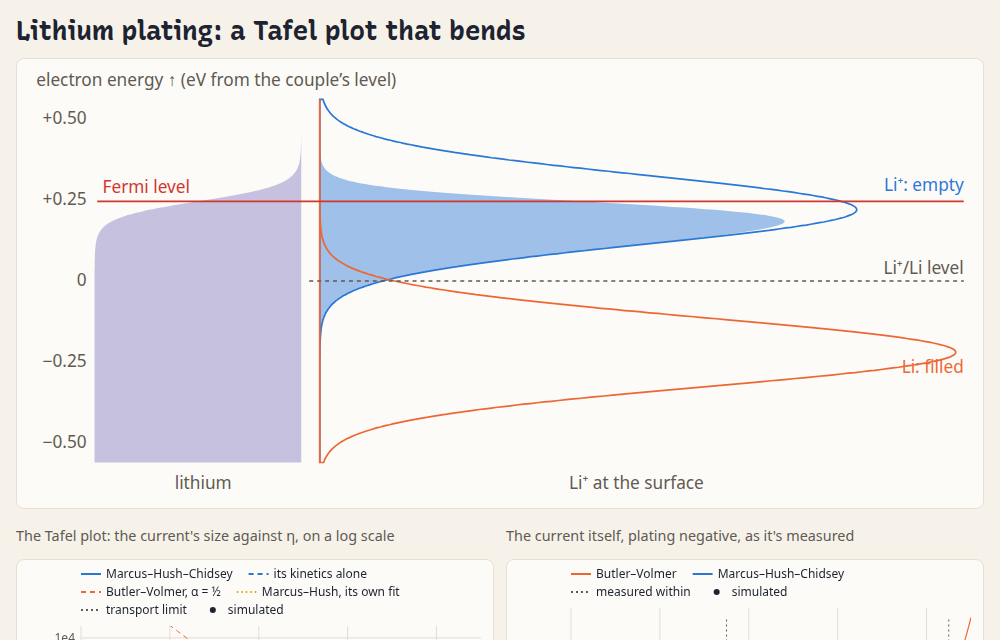
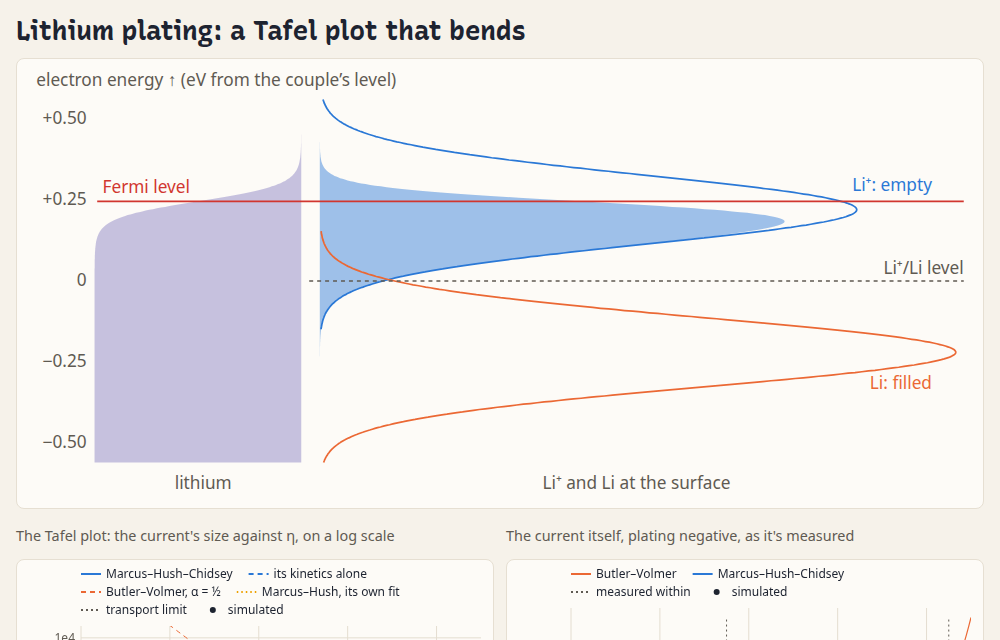
A worked example: Chidsey's experiment, electron transfer through a monolayer
Ferrocene tethered on gold (driftlet's new face surface), its rate constant
fitted to simulated potential-step decays against the overpotential and the
temperature, with Chidsey's 1991 parameters: Marcus-Hush-Chidsey bending
toward a ceiling, against Butler-Volmer and one-level Marcus theory. Fitted
rates within 2e-4 of the theory; every number on the page tested. Revised
after an open-brief review: k_et = 2k0 (2.7 against the 2.5 s^-1 measured),
the ceiling's 41% at 0.8 V, the fixed-A temperature dependence said for what
it is, ion pairing (Rowe and Creager 1991), the chain's role. Lithium page:
its states panel without the baseline strokes.

Changed region(s): [[0.527, 0.7188, 0.744, 0.7812], [0.868, 0.5625, 0.961, 0.625], [0.837, 0.2812, 0.961, 0.3125]]

diff --git a/demos/chidsey.html b/demos/chidsey.html
@@ -1,0 +1,253 @@
+<!doctype html>
+<html lang="en">
+<head>
+<meta charset="utf-8">
+<meta name="viewport" content="width=device-width, initial-scale=1">
+<title>Electron transfer through a monolayer</title>
+<meta name="description" content="Chidsey's experiment: ferrocene held at the end of a monolayer on gold, its electron transfer rate measured by potential steps against the driving force and temperature, Marcus–Hush–Chidsey kinetics against Butler–Volmer and one-level Marcus theory.">
+<meta property="og:title" content="Electron transfer through a monolayer · driftlet">
+<meta property="og:description" content="Chidsey's experiment: ferrocene held at the end of a monolayer on gold, its electron transfer rate measured by potential steps against the driving force and temperature, Marcus–Hush–Chidsey kinetics against Butler–Volmer and one-level Marcus theory.">
+<meta property="og:image" content="https://markblundeberg.github.io/driftlet/demos/screenshots/chidsey.png">
+<meta property="og:image:width" content="1000">
+<meta property="og:image:height" content="640">
+<meta property="og:url" content="https://markblundeberg.github.io/driftlet/demos/chidsey.html">
+<meta property="og:type" content="website">
+<meta name="twitter:card" content="summary_large_image">
+<link rel="icon" href="favicon.svg" type="image/svg+xml">
+<link rel="stylesheet" href="style.css">
+</head>
+<body>
+<main>
+<nav class="site"><a class="brand" href="./"><svg viewBox="0 0 84 74" aria-hidden="true"><path class="mark-rail" d="M4 18 C 34 18, 46 20, 58 34 S 72 54, 80 54" stroke-width="5" stroke-linecap="round"/><path class="mark-rail" d="M4 34 C 34 34, 46 36, 58 50 S 72 70, 80 70" stroke-width="1.8" stroke-linecap="round" opacity="0.75"/><path class="mark-trail" d="M44.9 9.7 L38.9 6.1 M41.0 13.4 L32.8 8.5" stroke-width="1.8" stroke-linecap="round" opacity="0.6"/><circle class="mark-dot" cx="52.2" cy="17.1" r="6.2"/></svg>driftlet</a><a href="./">all demos</a><a href="https://github.com/markblundeberg/driftlet">source on GitHub</a></nav>
+  <h1>Electron transfer through a monolayer: Chidsey's experiment</h1>
+  <p>Ferrocene held at the end of a long alkanethiol in a monolayer on gold, in perchloric acid: nothing
+    diffuses, and the chain slows the electron's tunnelling into milliseconds, so after a potential step
+    the ferrocene's charge relaxes at its electron transfer rate alone, and the current decays as a single
+    exponential. Its rate constant, step by step, against the overpotential, is the plot Chidsey made in
+    1991, with the parameters he fitted: it bends away from Butler–Volmer's straight line toward a ceiling,
+    as Marcus–Hush–Chidsey kinetics say (where one-level Marcus theory would turn down, past η = λ). The
+    top panel is why. Vary the step's overpotential η, the temperature and the reorganization energy λ.
+    (More about the model below.)</p>
+  <div class="controls">
+    <label>η <input id="eta" type="range" min="-0.9" max="0.9" step="0.1" value="0.5"><output id="etaOut"></output></label>
+    <label>T <input id="T" type="range" min="1" max="47" step="1" value="25"><output id="TOut"></output></label>
+    <label>λ <input id="lam" type="range" min="0.4" max="1.2" step="0.05" value="0.85"><output id="lamOut"></output></label>
+    <span class="readout" id="status"></span>
+  </div>
+  <div class="grid">
+    <div class="levels wide" id="states"></div>
+    <div><p class="note">After the step: the current, on a log scale, and the line fitted to it</p><canvas id="decay"></canvas></div>
+    <div><p class="note">The fitted rate constant against η, step by step (the theory's curves run on past the steps)</p><canvas id="rates"></canvas></div>
+  </div>
+  <h2>About this simulation</h2>
+  <p>Before an electron can leave a ferrocene for the gold (or arrive), the solvent and the molecule around
+    it have to rearrange, as if the charge had already moved; λ is what the whole rearrangement would cost
+    with the electron still in place. Marcus's theory puts the barrier at (λ − D)²/4λ for a driving force D
+    (the free energy the transfer releases), so for one electron level the rate grows with D up to D = λ and
+    falls past it (his inverted region: the dotted line). A metal offers a band of levels, filled to its
+    Fermi level, with an empty level at every energy, the activationless one among them. Summed over them,
+    the rate climbs until the levels at which the transfer is activationless are all on offer; driving
+    harder only adds levels deep in the inverted region, which give almost nothing, and the rate levels
+    off. In the top panel (electron energy upward, from the couple's
+    formal level, at the step's start, when half the ferrocene is oxidised), ferrocene's filled states
+    spread over a Gaussian λ below that level and ferrocenium's empty ones λ above, each about √(4λkT) wide
+    (Gerischer's picture of the couple's states). Oxidation
+    takes electrons from the filled states above the Fermi level into the metal's empty ones, the shaded
+    overlap; reduction the reverse. The rate constant the step measures is their sum,
+    k = A kT [I(λ, η) + I(λ, −η)], with I the integral over the band in units of kT.</p>
+  <p><a href="https://pubmed.ncbi.nlm.nih.gov/17847385/">Chidsey (Science, 1991)</a> held ferrocene a fixed
+    distance from gold by self-assembling a mixed thiol monolayer, its ferrocene on a 16-methylene chain, and
+    measured its electron transfer in 1 M HClO₄ from 1 to 47 °C over reaction free energies from −1.0 to
+    +0.8 eV: rate constants from 1 per second to 2 × 10⁴ per second, which Marcus–Hush–Chidsey kinetics
+    fitted reasonably with λ = 0.85 eV and a tunnelling prefactor A = 7 × 10⁴ s⁻¹ eV⁻¹, this page's values
+    (A for that chain: each methylene cuts the tunnelling roughly e-fold, which is what puts these rates
+    within reach of a potential step, ahead of the cell's own charging time). Those put the rate at the
+    formal potential at 1.35 s⁻¹ each way at 25 °C, so 2.7 s⁻¹ for the relaxation a step measures, which
+    Chidsey's group later quoted as 2.5 s⁻¹ measured (<a href="https://pmc.ncbi.nlm.nih.gov/articles/PMC3434967/">Devaraj
+    and colleagues, 2006</a>); 0.61 each way at 1 °C, 2.55 at 47 °C, an activation energy of 0.24 eV, a
+    little above λ/4. The ceiling is A kT √(4πλ/kT) = 3.7 × 10⁴ s⁻¹, half of which the oxidation reaches at
+    η = λ; at 0.8 V the rate is 41% of it, and by 1.5 V it has all but reached it (99.9%). By 0.8 V Butler–Volmer, with
+    the same rate at the formal potential, would be 500 times faster. Driven hard, the rate depends on the
+    temperature far less than at the formal potential: 10% between 1 and 47 °C at 0.8 V against fourfold,
+    and 2% if the electronic coupling, rather than A, is held fixed (A in this form carries 1/√T).</p>
+  <p>The simulation runs the experiment: the gold at the couple's formal potential, a step to η, and the
+    current through the gold as the ferrocene's coverage moves to its new equilibrium. Its rate constant is
+    the slope of a straight line fitted to ln i over the decay (between half a decay time and three), with
+    nothing of the theory in the fit; the points follow the line, worked out apart from the solver (the
+    integral by Simpson's rule), within 2 × 10⁻⁴. The couple is driftlet's surface species at the face
+    (<code>surface</code>, with the reaction <code>Fc + ClO4- = FcClO4 + e-</code>, Marcus–Hush–Chidsey
+    kinetics), and the coverage is held by the face, not carried by the solution.</p>
+  <p>What the model leaves out. Surface species here carry no charge, so ferrocenium is written as an ion
+    pair with perchlorate, which the acid's 1 M supplies, as it's often described in these monolayers
+    (ion pairing there is well documented: Rowe and Creager, Langmuir 7, 2307, 1991). The face has no capacitance, so no charging current follows the step, where a real
+    measurement must separate the two (it decays in microseconds there). All the potential the step applies
+    drives the reaction: the share of the interfacial drop that falls between the ferrocene and the
+    solution isn't modelled, nor the spread of rates a real monolayer shows, nor the solution's resistance
+    between the gold and a reference. The gold's density of states and the coupling are taken as flat in
+    energy; λ and A are held fixed as the temperature changes; and the rate is symmetric, one λ for both
+    directions. Later work has refined each of these (kinetic dispersion, asymmetric forms of the theory):
+    the fit here is the first one, the one that made the case. The ferrocene covers 2% of the monolayer's sites (1.5 × 10⁻¹¹
+    mol/cm², an illustrative coverage: k doesn't depend on it).</p>
+</main>
+<script type="module">
+import { Device, FARADAY, GAS_CONSTANT, units } from '../src/index.js';
+import { build, layer, ohmic, bath, aqueous, metal } from '../src/kit.js';
+import { chart, colors } from './plot.js';
+import { showCode, fromQuery, fitted } from './common.js';
+
+const A = 7e4; // Chidsey's tunnelling prefactor, s⁻¹ eV⁻¹
+const sites = 7.6e-6, cover = 0.02; // a full alkanethiol monolayer's sites (mol/m²), and the ferrocene's share
+const acid = { 'H+': 1000, 'ClO4-': 1000 }; // 1 M HClO₄
+const kT = (T) => (GAS_CONSTANT * T) / FARADAY; // eV
+// The Marcus–Hush–Chidsey integral by Simpson's rule, apart from the library's: I(λ, a) =
+// ∫ e^{−(x − λ + a)²/4λ}/(1 + eˣ) dx, with x, λ and a in units of kT.
+function mhcI(lam, a) {
+  const L = lam + Math.abs(a) + 14 * Math.sqrt(lam) + 60, n = 2 * Math.ceil(L / 0.1), h = (2 * L) / n;
+  const f = (x) => Math.exp(-((x - lam + a) * (x - lam + a)) / (4 * lam)) / (1 + Math.exp(x));
+  let s = f(-L) + f(L);
+  for (let k = 1; k < n; k++) s += (k % 2 ? 4 : 2) * f(-L + k * h);
+  return (s * h) / 3;
+}
+// The rate constant a step to η measures (s⁻¹), oxidation's plus reduction's: Chidsey's, A kT [I(η) + I(−η)];
+// Butler–Volmer's with α = ½ and the same rate at the formal potential; and one-level Marcus theory's.
+function rate(eta, lam, T, law = 'mhc') {
+  const kt = kT(T), L = lam / kt, a = eta / kt, k0 = A * kt * mhcI(L, 0);
+  if (law === 'bv') return k0 * 2 * Math.cosh(a / 2);
+  if (law === 'marcus') return k0 * 2 * Math.cosh(a / 2) * Math.exp(-(a * a) / (4 * L));
+  return A * kt * (mhcI(L, a) + mhcI(L, -a));
+}
+// Gold, its face holding ferrocene (Fc) and ferrocenium paired with perchlorate (FcClO4) on the
+// monolayer's sites, half each at the start; the acid; a bath. k0 per area: sites × the rate per
+// ferrocene at the formal potential (each Fc and ClO₄⁻ at its standard state).
+const monolayer = (V, lam, T) => build({
+  T,
+  library: [aqueous(['H+', 'ClO4-'], { epsr: 0 }), metal('Au')],
+  stack: [
+    ohmic(V, ['e-']),
+    layer('Au', 1e-6),
+    {
+      surface: { Fc: { mu0: 0, capacity: sites, theta0: cover / 2 }, FcClO4: { mu0: 0, capacity: sites, theta0: cover / 2 } },
+      reactions: [{ equation: 'Fc + ClO4- = FcClO4 + e-', k0: sites * A * kT(T) * mhcI(lam / kT(T), 0), lambda: units.eV(lam) }],
+    },
+    layer('water', 1e-6, { c0: acid }),
+    bath(acid, 'ClO4-'),
+  ],
+  grid: { hmin: 1e-8, hmax: 1e-7 },
+});
+// The experiment: the couple's formal potential (where its coverages are equal), a step to η, the current
+// sampled over four of its decay times, and k from a line through ln i between half of one and three.
+function step(eta, lam, T) {
+  const dev = new Device(monolayer(0, lam, T)), cov = dev.solve().interfaces[0].coverage;
+  const E0 = -kT(T) * Math.log(cov.FcClO4 / cov.Fc); // (the step's start: θ_O = θ_R there)
+  dev.set({ contacts: { left: { V: E0 } } });
+  dev.solve();
+  dev.set({ contacts: { left: { V: E0 + eta } } });
+  const span = 4 / rate(eta, lam, T), t = Array.from({ length: 41 }, (_, j) => (span * (j + 1)) / 41);
+  const i = t.map((tj) => dev.advance(tj, { tol: 1e-8 }).current);
+  const fit = t.map((tj, j) => [tj, Math.log(Math.abs(i[j]))]).filter(([tj]) => tj > span / 8 && tj < (3 * span) / 4);
+  const n = fit.length, mx = fit.reduce((s, [x]) => s + x, 0) / n, my = fit.reduce((s, [, y]) => s + y, 0) / n;
+  const slope = fit.reduce((s, [x, y]) => s + (x - mx) * (y - my), 0) / fit.reduce((s, [x]) => s + (x - mx) * (x - mx), 0);
+  return { t, i, k: -slope, a: my - slope * mx, E0 };
+}
+const etas = Array.from({ length: 19 }, (_, j) => -0.9 + 0.1 * j).filter((e) => Math.abs(e) > 1e-9);
+// Gerischer's picture at the step's start (θ_O = θ_R), on an energy grid E (eV from the formal level,
+// electron energy up): the metal's occupancy, ferrocene's filled and ferrocenium's empty states, and the
+// overlaps whose areas are the oxidation and reduction rates.
+function states(eta, lam, T, E) {
+  const kt = kT(T), w = 4 * lam * kt, norm = 1 / Math.sqrt(Math.PI * w), EF = -eta;
+  const f = E.map((e) => 1 / (1 + Math.exp((e - EF) / kt)));
+  const filled = E.map((e) => norm * Math.exp(-((e + lam) * (e + lam)) / w)), empty = E.map((e) => norm * Math.exp(-((e - lam) * (e - lam)) / w));
+  return { EF, f, filled, empty, oxidation: filled.map((v, k) => v * (1 - f[k])), reduction: empty.map((v, k) => v * f[k]) };
+}
+
+// (All above runs without a page: test/demos.test.js checks this theory against the simulation.)
+
+const etaIn = document.getElementById('eta'), TIn = document.getElementById('T'), lamIn = document.getElementById('lam');
+for (const el of [etaIn, TIn, lamIn]) fromQuery(el);
+const eta = () => +etaIn.value, temp = () => 273.15 + +TIn.value, lam = () => +lamIn.value;
+const signed = (v, d = 2) => `${v < 0 ? '−' : '+'}${Math.abs(v).toFixed(d)}`;
+const sup = (n) => String(n).replace(/[-0-9]/g, (d) => '⁻⁰¹²³⁴⁵⁶⁷⁸⁹'['-0123456789'.indexOf(d)]);
+const fmt = (v) => (v >= 1000 ? `${(v / 10 ** Math.floor(Math.log10(v))).toFixed(2)} × 10${sup(Math.floor(Math.log10(v)))}` : v.toPrecision(3));
+let run;
+const labels = () => {
+  document.getElementById('etaOut').textContent = `${signed(eta(), 1)} V`;
+  document.getElementById('TOut').textContent = `${TIn.value} °C`;
+  document.getElementById('lamOut').textContent = `${lam().toFixed(2)} eV`;
+};
+function rebuild() {
+  const L = lam(), T = temp();
+  run = { L, T, steps: etas.map((e) => step(e, L, T)) };
+  update();
+}
+function update() {
+  labels();
+  const { L, T, steps } = run, j = etas.reduce((b, e, q) => (Math.abs(e - eta()) < Math.abs(etas[b] - eta()) ? q : b), 0), s = steps[j], e = etas[j];
+  document.getElementById('status').textContent = `step to η ${signed(e, 1)} V: k ${fmt(s.k)} s⁻¹ fitted (theory ${fmt(rate(e, L, T))}) · at the formal potential ${fmt(rate(1e-9, L, T) / 2)} s⁻¹ each way · ceiling ${fmt(A * kT(T) * Math.sqrt((4 * Math.PI * L) / kT(T)))} s⁻¹`;
+  const el = document.getElementById('states');
+  el.innerHTML = statesSvg(e, L, T, fitted(el, 720));
+  const ia = s.i.map((v) => Math.abs(v) / 1e-2), lo = 10 ** Math.floor(Math.log10(Math.min(...ia))), hi = 10 ** Math.ceil(Math.log10(Math.max(...ia)));
+  chart(document.getElementById('decay'), {
+    xlabel: 't (ms)', ylabel: '|i| (µA/cm²)', logy: true, ylim: [lo, hi],
+    series: [
+      { x: s.t.map((t) => t * 1e3), y: s.t.map((t) => Math.exp(s.a - s.k * t) / 1e-2), color: colors[0], width: 1.4, label: `fitted, k = ${fmt(s.k)} s⁻¹` },
+      { x: s.t.map((t) => t * 1e3), y: ia, color: 'var(--ink)', marker: true, width: 0, label: 'simulated' },
+    ],
+  });
+  const Et = Array.from({ length: 301 }, (_, q) => -1.5 + 0.01 * q), low = 10 ** Math.floor(Math.log10(rate(1e-9, L, T) / 2));
+  chart(document.getElementById('rates'), {
+    xlabel: 'η (V)', ylabel: 'k (s⁻¹)', logy: true, ylim: [low, 1e8],
+    series: [
+      { x: Et, y: Et.map((v) => rate(v, L, T)), color: colors[0], width: 1.6, label: 'Marcus–Hush–Chidsey' },
+      { x: Et, y: Et.map((v) => rate(v, L, T, 'bv')), color: colors[1], width: 1, dash: [5, 4], label: 'Butler–Volmer, α = ½' },
+      { x: Et, y: Et.map((v) => rate(v, L, T, 'marcus')), color: colors[3], width: 1.2, dash: [1.5, 3], label: 'Marcus, one level' },
+      { x: etas, y: steps.map((q) => q.k), color: 'var(--ink)', marker: true, width: 0, label: 'fitted to the simulation' },
+      { x: [e, e], y: [low, 1e8], color: 'var(--muted)', width: 1, dash: [2, 3], label: 'this step' },
+    ],
+  });
+}
+// The states panel: the metal's filled band (left) and the couple's states (right), the overlaps shaded.
+function statesSvg(eta, lam, T, width) {
+  const sigma = Math.sqrt(2 * lam * kT(T)), R = Math.max(0.6, lam + 3.2 * sigma, Math.abs(eta) + 0.15);
+  const E = Array.from({ length: 481 }, (_, k) => -R + (2 * R * k) / 480);
+  const { EF, f, filled, empty, oxidation, reduction } = states(eta, lam, T, E);
+  const H = 330, top = 26, bottom = 30, mid = Math.max(120, Math.round(width * 0.3)), right = width - 10;
+  const y = (e) => top + ((R - e) / (2 * R)) * (H - top - bottom);
+  const peak = Math.max(...empty, ...filled) || 1, gx = (v) => mid + 8 + (v / peak) * (right - mid - 14);
+  const curve = (vals) => `M${gx(0)} ${y(E[0])} ` + vals.map((v, k) => `L${gx(v).toFixed(1)} ${y(E[k]).toFixed(1)}`).join(' ') + ` L${gx(0)} ${y(E.at(-1))} Z`;
+  // (the outline alone, where it stands off its baseline: no line along the axis)
+  const line = (vals) => vals.map((v, k) => (v > 2e-3 * peak ? `${vals[k - 1] > 2e-3 * peak ? 'L' : 'M'}${gx(v).toFixed(1)} ${y(E[k]).toFixed(1)}` : '')).join(' ');
+  const band = `M${mid - 6} ${y(E[0])} ` + f.map((v, k) => `L${(mid - 6 - (mid - 60) * v).toFixed(1)} ${y(E[k]).toFixed(1)}`).join(' ') + ` L${mid - 6} ${y(E.at(-1))} Z`;
+  const muted = 'var(--muted)';
+  const text = (x, yy, s, anchor, color) => `<text x="${x}" y="${yy}" text-anchor="${anchor}" fill="${color}" font-size="13" stroke="var(--panel)" stroke-width="3" paint-order="stroke">${s}</text>`;
+  const stepE = R > 0.9 ? 0.5 : 0.25, ticks = [];
+  for (let e = -Math.floor(R / stepE) * stepE; e <= R + 1e-9; e += stepE) ticks.push(e);
+  const ef = y(EF), clear = (a, b) => Math.abs(a - b) > 15;
+  return `<svg viewBox="0 0 ${width} ${H}" role="img" aria-label="the gold's filled states up to its Fermi level, and ferrocene's filled and ferrocenium's empty states, each a Gaussian λ from the couple's level; the overlaps are the oxidation and reduction rates" font-family="system-ui, sans-serif" style="width:100%;height:auto;display:block">
+    <path d="${band}" fill="var(--c7)" opacity="0.3"/>
+    <path d="${curve(oxidation)}" fill="var(--c2)" opacity="0.45"/>
+    <path d="${curve(reduction)}" fill="var(--c1)" opacity="0.45"/>
+    <path d="${line(empty)}" fill="none" stroke="var(--c1)" stroke-width="1.3"/>
+    <path d="${line(filled)}" fill="none" stroke="var(--c2)" stroke-width="1.3"/>
+    <line x1="${mid}" x2="${right}" y1="${y(0)}" y2="${y(0)}" stroke="${muted}" stroke-width="1" stroke-dasharray="3 3"/>
+    <line x1="56" x2="${right}" y1="${ef}" y2="${ef}" stroke="var(--mark)" stroke-width="1.5"/>
+    ${text(60, ef - 6, 'Fermi level', 'start', 'var(--mark)')}
+    ${clear(y(0), ef) ? text(right, y(0) - 5, 'formal level', 'end', muted) : ''}
+    ${text(right - 24, clear(y(lam) - 18, ef) ? y(lam) - 18 : ef - 8, 'Fc⁺: empty', 'end', 'var(--c1)')}
+    ${text(right - 24, clear(y(-lam) + 28, ef) ? y(-lam) + 28 : ef + 18, 'Fc: filled', 'end', 'var(--c2)')}
+    ${text((mid + 56) / 2, H - 10, 'gold', 'middle', muted)}
+    ${text((mid + right) / 2, H - 10, 'ferrocene on the monolayer', 'middle', muted)}
+    ${text(10, 16, 'electron energy ↑ (eV from the couple’s level)', 'start', muted)}
+    ${ticks.map((e) => text(48, y(e) + 4, Math.abs(e) < 1e-9 ? '0' : signed(e), 'end', muted)).join('')}
+  </svg>`;
+}
+for (const el of [TIn, lamIn]) {
+  el.addEventListener('change', rebuild);
+  el.addEventListener('input', labels);
+}
+etaIn.addEventListener('input', update);
+addEventListener('resize', update);
+rebuild();
+showCode();
+</script>
+</body>
+</html>

diff --git a/demos/index.html b/demos/index.html
@@ -40,7 +40,7 @@
     <a class="card" href="perovskite.html"><em class="stamp" title="drawn against IonMonger, an independent perovskite code">✓ IonMonger</em><img src="screenshots/perovskite.png" alt="perovskite hysteresis"><div><b>Perovskite hysteresis</b><span>Mobile iodide vacancies make the J–V curve depend on scan rate: the loop opening and closing, the vacancies' layers at each face, against IonMonger.</span></div></a>
     <a class="card" href="mos.html"><em class="stamp" title="drawn against the ideal low- and high-frequency C–V curves">✓ ideal C–V</em><img src="screenshots/mos.png" alt="MOS capacitor"><div><b>MOS capacitor</b><span>Accumulation, depletion and inversion under a metal gate; C–V at any frequency, from the low-frequency curve to the high, as generation stops keeping up.</span></div></a>
   </div>
-  <h2>Electrodes<span class="cast" title="the cast"><span class="minus">e⁻</span><span class="plus">Fe³⁺</span><span class="minus">S₂O₈²⁻</span><span class="zero">O₂</span><span class="plus">Li⁺</span></span></h2>
+  <h2>Electrodes<span class="cast" title="the cast"><span class="minus">e⁻</span><span class="plus">Fe³⁺</span><span class="minus">S₂O₈²⁻</span><span class="zero">O₂</span><span class="plus">Li⁺</span><span class="plus">Fc⁺</span></span></h2>
   <div class="cards">
     <a class="card" href="redox.html"><em class="stamp tested" title="no check on the page; Butler–Volmer kinetics and Nernst levels are validated in the test suite">tested: Butler–Volmer</em><img src="screenshots/redox.png" alt="cyclic voltammetry"><div><b>Cyclic voltammetry</b><span>Fe³⁺/Fe²⁺ at platinum: the Fermi level against the couple's redox level, Butler–Volmer kinetics and diffusion.</span></div></a>
     <a class="card" href="steps.html"><em class="stamp" title="drawn against Cottrell's and Sand's solutions, with Butler–Volmer kinetics">✓ Cottrell, Sand</em><img src="screenshots/steps.png" alt="potential and current steps"><div><b>Potential and current steps</b><span>Chronoamperometry and chronopotentiometry at platinum: the current after a potential step against Cottrell, kinetics and all, and the potential after a current step to Sand's transition time.</span></div></a>
@@ -48,6 +48,7 @@
     <a class="card" href="randles.html"><em class="stamp" title="drawn against the Randles circuit, each element worked out from the physics">✓ Randles circuit</em><img src="screenshots/randles.png" alt="Randles circuit"><div><b>Randles circuit</b><span>A redox electrode's impedance, simulated from the ions and the reaction, against the Randles equivalent circuit: solution resistance, double layer, charge transfer and a finite Warburg, each from the physics.</span></div></a>
     <a class="card" href="frumkin.html"><em class="stamp" title="drawn against the Frumkin correction with the double layer's resistance to the reactant">✓ Frumkin correction</em><img src="screenshots/frumkin.png" alt="Frumkin effect"><div><b>Frumkin effect</b><span>Peroxodisulfate at mercury: past the potential of zero charge the double layer repels the reactant, and in dilute salt the current falls as the drive grows. The double layer opened up, nanometre by nanometre.</span></div></a>
     <a class="card" href="corrosion.html"><em class="stamp" title="drawn against the Evans diagram's closed forms: E_corr to 0.1 mV, i_corr to five digits">✓ Evans diagram</em><img src="screenshots/corrosion.png" alt="corrosion and the Evans diagram"><div><b>Corrosion</b><span>Iron in aerated salt water settles at a mixed potential between its own redox level and oxygen's: the Evans diagram against closed forms, and why stirring speeds corrosion.</span></div></a>
+    <a class="card" href="chidsey.html"><em class="stamp" title="the rate constants fitted to the simulated decays, against Marcus–Hush–Chidsey theory (2e-4)">✓ MHC theory</em><img src="screenshots/chidsey.png" alt="Chidsey's experiment"><div><b>Through a monolayer</b><span>Chidsey's experiment: ferrocene tethered to gold, its electron transfer rate from potential steps against the driving force and temperature, bending toward a ceiling as Marcus–Hush–Chidsey kinetics say, where Butler–Volmer's runs straight on.</span></div></a>
     <a class="card" href="lithium.html"><em class="stamp" title="drawn against the exact steady solution: a binary salt's supply to a sphere in series with the Marcus–Hush–Chidsey rate, its integral by Simpson's rule">✓ steady theory</em><img src="screenshots/lithium.png" alt="lithium plating with Marcus–Hush–Chidsey kinetics"><div><b>Lithium plating</b><span>Marcus kinetics as fitted to lithium measurements: a Tafel plot that bends away from Butler–Volmer, two Marcus fits that agree on the data and part beyond it, and why one levels off, from the metal's filled states against lithium's.</span></div></a>
   </div>
   <h2>Cells and batteries<span class="cast" title="the cast"><span class="minus">e⁻</span><span class="plus">Zn²⁺</span><span class="plus">Ag⁺</span><span class="minus">NO₃⁻</span><span class="plus">Li⁺</span></span></h2>

diff --git a/test/demos.test.js b/test/demos.test.js
@@ -463,3 +463,43 @@ test('demos/lithium.html: Marcus–Hush–Chidsey plating against its closed for
   const kappa = (FARADAY * FARADAY * c * (DLi + (DLi * 0.62) / 0.38)) / RT;
   assert.ok(Math.abs(kappa - 2.4) < 0.05, `${kappa}`);
 });
+
+test("demos/chidsey.html: Chidsey's experiment, the fitted rates against the theory, and the numbers the page gives", async () => {
+  const { mhcIntegral } = await import('../src/marcus.js');
+  const { step, rate, etas, mhcI, kT, A, states } = await pageTheory('chidsey.html', ['step', 'rate', 'etas', 'mhcI', 'kT', 'A', 'states']);
+  for (const [lam, a] of [[33.1, 0], [33.1, 30], [33.1, -30], [19.5, 15]]) assert.ok(Math.abs(mhcI(lam, a) / mhcIntegral(lam, a).I - 1) < 1e-12);
+  // the rate constants fitted to the simulated decays, against the theory: 2e-4, across η, T and λ
+  for (const [T, lam] of [[298.15, 0.85], [274.15, 0.85], [320.15, 0.5], [298.15, 1.2]]) {
+    for (const e of [-0.9, -0.3, 0.1, 0.5, 0.8]) {
+      const s = step(e, lam, T);
+      assert.ok(Math.abs(s.k / rate(e, lam, T) - 1) < 2e-4, `T ${T}, λ ${lam}, η ${e}: ${s.k} vs ${rate(e, lam, T)}`);
+    }
+  }
+  assert.equal(etas.length, 18);
+  // at the formal potential 1.35 s⁻¹ at 25 °C, 0.61 at 1 °C, 2.55 at 47 °C; the ceiling 3.7e4 s⁻¹
+  const k0 = (T) => rate(1e-9, 0.85, T) / 2;
+  assert.ok(Math.abs(k0(298.15) - 1.35) < 0.005 && Math.abs(k0(274.15) - 0.61) < 0.005 && Math.abs(k0(320.15) - 2.55) < 0.005);
+  assert.ok(Math.abs(A * kT(298.15) * Math.sqrt((4 * Math.PI * 0.85) / kT(298.15)) / 3.7e4 - 1) < 0.01);
+  // by 0.8 V: Butler–Volmer 500 times faster; one-level Marcus at its peak, η = λ; the temperature 10% there, ×4 at E°′
+  assert.ok(Math.abs(rate(0.8, 0.85, 298.15, 'bv') / rate(0.8, 0.85, 298.15) / 523 - 1) < 0.01);
+  const mk = (e) => rate(e, 0.85, 298.15, 'marcus');
+  assert.ok(mk(0.85) > mk(0.8) && mk(0.85) > mk(0.9));
+  assert.ok(Math.abs(rate(0.8, 0.85, 320.15) / rate(0.8, 0.85, 274.15) - 1.10) < 0.01 && Math.abs(k0(320.15) / k0(274.15) - 4.2) < 0.05);
+  // the ceiling's share: half for the oxidation at η = λ, 41% for the sum at 0.8 V, 99.9% by 1.5 V
+  const ceil = (T) => A * kT(T) * Math.sqrt((4 * Math.PI * 0.85) / kT(T)), L25 = 0.85 / kT(298.15);
+  assert.ok(Math.abs((A * kT(298.15) * mhcI(L25, L25)) / ceil(298.15) - 0.5) < 1e-9);
+  assert.ok(Math.abs(rate(0.8, 0.85, 298.15) / ceil(298.15) - 0.41) < 0.005 && rate(1.5, 0.85, 298.15) / ceil(298.15) > 0.998);
+  // the activation energy at the formal potential, 0.24 eV (λ/4 = 0.21); 2.7 s⁻¹ for the step's relaxation there
+  const Ea = (Math.log(k0(320.15) / k0(274.15)) * (kT(298.15) / 298.15)) / (1 / 274.15 - 1 / 320.15); // (R/F = kT/T)
+  assert.ok(Math.abs(Ea - 0.2365) < 0.001, `${Ea}`);
+  assert.ok(Math.abs(rate(1e-9, 0.85, 298.15) - 2.7) < 0.01);
+  // with the coupling held instead of A (A ∝ 1/√T): 2% at 0.8 V, 3.9-fold at the formal potential
+  const fixed = (e, T) => rate(e, 0.85, T) * Math.sqrt(298.15 / T);
+  assert.ok(Math.abs(fixed(0.8, 320.15) / fixed(0.8, 274.15) - 1.018) < 0.002 && Math.abs(fixed(1e-9, 320.15) / fixed(1e-9, 274.15) - 3.90) < 0.01);
+  // Gerischer's overlaps are the oxidation and reduction rates: their areas against the integral
+  for (const [e, lam, T] of [[0.5, 0.85, 298.15], [-0.3, 0.6, 320.15]]) {
+    const E = Array.from({ length: 4001 }, (_, k) => -3 + 0.0015 * k), s = states(e, lam, T, E), area = (v) => v.reduce((t, x) => t + x, 0) * 0.0015;
+    const L = lam / kT(T), want = mhcI(L, e / kT(T)) / Math.sqrt(4 * Math.PI * L);
+    assert.ok(Math.abs(area(s.oxidation) / want - 1) < 1e-3 && Math.abs(area(s.reduction) / (mhcI(L, -e / kT(T)) / Math.sqrt(4 * Math.PI * L)) - 1) < 1e-3);
+  }
+});

diff --git a/demos/lithium.html b/demos/lithium.html
@@ -262,9 +262,11 @@ function statesSvg(eta, L, cs, width) {
   const y = (e) => top + ((R - e) / (2 * R)) * (H - top - bottom);
   const peak = Math.max(...empty, ...filled) || 1, gx = (v) => mid + 8 + (v / peak) * (right - mid - 14);
   const curve = (vals) => `M${gx(0)} ${y(E[0])} ` + vals.map((v, k) => `L${gx(v).toFixed(1)} ${y(E[k]).toFixed(1)}`).join(' ') + ` L${gx(0)} ${y(E.at(-1))} Z`;
+  // (the outline alone, where it stands off its baseline: no line along the axis)
+  const line = (vals) => vals.map((v, k) => (v > 2e-3 * peak ? `${vals[k - 1] > 2e-3 * peak ? 'L' : 'M'}${gx(v).toFixed(1)} ${y(E[k]).toFixed(1)}` : '')).join(' ');
   const band = `M${mid - 6} ${y(E[0])} ` + f.map((v, k) => `L${(mid - 6 - (mid - 60) * v).toFixed(1)} ${y(E[k]).toFixed(1)}`).join(' ') + ` L${mid - 6} ${y(E.at(-1))} Z`;
   const muted = 'var(--muted)';
-  const text = (x, yy, s, anchor, color) => `<text x="${x}" y="${yy}" text-anchor="${anchor}" fill="${color}" font-size="13">${s}</text>`;
+  const text = (x, yy, s, anchor, color) => `<text x="${x}" y="${yy}" text-anchor="${anchor}" fill="${color}" font-size="13" stroke="var(--panel)" stroke-width="3" paint-order="stroke">${s}</text>`;
   const step = R > 0.9 ? 0.5 : 0.25, ticks = [];
   for (let e = -Math.floor(R / step) * step; e <= R + 1e-9; e += step) ticks.push(e);
   const ef = y(EF), clear = (a, b) => Math.abs(a - b) > 15; // (a label kept off the Fermi level's)
@@ -272,14 +274,14 @@ function statesSvg(eta, L, cs, width) {
     <path d="${band}" fill="var(--c7)" opacity="0.3"/>
     <path d="${curve(plating)}" fill="var(--c1)" opacity="0.45"/>
     <path d="${curve(stripping)}" fill="var(--c2)" opacity="0.45"/>
-    <path d="${curve(empty)}" fill="none" stroke="var(--c1)" stroke-width="1.3"/>
-    <path d="${curve(filled)}" fill="none" stroke="var(--c2)" stroke-width="1.3"/>
+    <path d="${line(empty)}" fill="none" stroke="var(--c1)" stroke-width="1.3"/>
+    <path d="${line(filled)}" fill="none" stroke="var(--c2)" stroke-width="1.3"/>
     <line x1="${mid}" x2="${right}" y1="${y(0)}" y2="${y(0)}" stroke="${muted}" stroke-width="1" stroke-dasharray="3 3"/>
     <line x1="56" x2="${right}" y1="${ef}" y2="${ef}" stroke="var(--mark)" stroke-width="1.5"/>
     ${text(60, ef - 6, 'Fermi level', 'start', 'var(--mark)')}
     ${clear(y(0), ef) ? text(right, y(0) - 5, 'Li⁺/Li level', 'end', muted) : ''}
-    ${text(right, clear(y(L) - 6, ef) ? y(L) - 6 : ef - 8, 'Li⁺: empty', 'end', 'var(--c1)')}
-    ${text(right, clear(y(-L) + 16, ef) ? y(-L) + 16 : ef + 18, 'Li: filled', 'end', 'var(--c2)')}
+    ${text(right - 24, clear(y(L) - 18, ef) ? y(L) - 18 : ef - 8, 'Li⁺: empty', 'end', 'var(--c1)')}
+    ${text(right - 24, clear(y(-L) + 28, ef) ? y(-L) + 28 : ef + 18, 'Li: filled', 'end', 'var(--c2)')}
     ${text((mid + 56) / 2, H - 10, 'lithium', 'middle', muted)}
     ${text((mid + right) / 2, H - 10, 'Li⁺ and Li at the surface', 'middle', muted)}
     ${text(10, 16, 'electron energy ↑ (eV from the couple’s level)', 'start', muted)}

diff --git a/tools/shots.js b/tools/shots.js
@@ -36,6 +36,7 @@ const SHOTS = {
   randles: { query: '', budget: 60000 },
   corrosion: { query: '', budget: 60000 },
   lithium: { query: '', budget: 60000 },
+  chidsey: { query: '', budget: 60000 },
   insertion: { query: 't=6000', budget: 60000 },
 };
 

diff --git a/README.md b/README.md
@@ -165,7 +165,7 @@ The same equations go by different names in different fields. If your problem is
 |---|---|---|
 | Semiconductor devices | drift–diffusion, van Roosbroeck, quasi-Fermi levels, Scharfetter–Gummel; pn, Schottky, MOS, heterojunctions, thin-film transistors | the [first example](#a-semiconductor-junction); [pn](https://markblundeberg.github.io/driftlet/demos/pn.html), [MOS](https://markblundeberg.github.io/driftlet/demos/mos.html) and [transistor](https://markblundeberg.github.io/driftlet/demos/saturation.html#transistor) demos |
 | Solar cells | photogeneration, Beer–Lambert, radiative and SRH recombination, excitons, mobile ions | [solar](https://markblundeberg.github.io/driftlet/demos/solar.html), [organic](https://markblundeberg.github.io/driftlet/demos/organic.html) and [perovskite](https://markblundeberg.github.io/driftlet/demos/perovskite.html) demos |
-| Electrochemistry, corrosion | Nernst–Planck, concentration polarization, limiting current, Butler–Volmer and Marcus–Hush–Chidsey kinetics, Warburg, Randles circuits, cyclic voltammetry, chronoamperometry (Cottrell), chronopotentiometry (Sand), rotating disks (Levich, Koutecký–Levich), salt bridges, liquid junctions, mixed potentials and corrosion (Evans diagrams) | the [second example](#an-electrochemical-cell); [cyclic voltammetry](https://markblundeberg.github.io/driftlet/demos/redox.html), [potential and current step](https://markblundeberg.github.io/driftlet/demos/steps.html), [rotating disk](https://markblundeberg.github.io/driftlet/demos/rde.html), [Randles-circuit](https://markblundeberg.github.io/driftlet/demos/randles.html), [corrosion](https://markblundeberg.github.io/driftlet/demos/corrosion.html), [lithium-plating](https://markblundeberg.github.io/driftlet/demos/lithium.html), [Daniell cell](https://markblundeberg.github.io/driftlet/demos/daniell.html), [limiting current](https://markblundeberg.github.io/driftlet/demos/saturation.html), [impedance](https://markblundeberg.github.io/driftlet/demos/impedance.html), [liquid-junction](https://markblundeberg.github.io/driftlet/demos/junction.html) and [Frumkin-effect](https://markblundeberg.github.io/driftlet/demos/frumkin.html) demos |
+| Electrochemistry, corrosion | Nernst–Planck, concentration polarization, limiting current, Butler–Volmer and Marcus–Hush–Chidsey kinetics, Warburg, Randles circuits, cyclic voltammetry, chronoamperometry (Cottrell), chronopotentiometry (Sand), rotating disks (Levich, Koutecký–Levich), salt bridges, liquid junctions, mixed potentials and corrosion (Evans diagrams) | the [second example](#an-electrochemical-cell); [cyclic voltammetry](https://markblundeberg.github.io/driftlet/demos/redox.html), [potential and current step](https://markblundeberg.github.io/driftlet/demos/steps.html), [rotating disk](https://markblundeberg.github.io/driftlet/demos/rde.html), [Randles-circuit](https://markblundeberg.github.io/driftlet/demos/randles.html), [corrosion](https://markblundeberg.github.io/driftlet/demos/corrosion.html), [lithium-plating](https://markblundeberg.github.io/driftlet/demos/lithium.html), [tethered-ferrocene](https://markblundeberg.github.io/driftlet/demos/chidsey.html), [Daniell cell](https://markblundeberg.github.io/driftlet/demos/daniell.html), [limiting current](https://markblundeberg.github.io/driftlet/demos/saturation.html), [impedance](https://markblundeberg.github.io/driftlet/demos/impedance.html), [liquid-junction](https://markblundeberg.github.io/driftlet/demos/junction.html) and [Frumkin-effect](https://markblundeberg.github.io/driftlet/demos/frumkin.html) demos |
 | Batteries, intercalation | OCV, insertion hosts, chemical diffusion | [insertion](https://markblundeberg.github.io/driftlet/demos/insertion.html) demo |
 | Double layers, colloids | Poisson–Boltzmann, Gouy–Chapman–Stern, Debye screening, crowding (Bikerman), the Frumkin correction | [double-layer](https://markblundeberg.github.io/driftlet/demos/double-layer.html) and [Frumkin-effect](https://markblundeberg.github.io/driftlet/demos/frumkin.html) demos |
 | Membranes, nanofluidics | Donnan, ion exchange, Teorell–Meyer–Sievers, charged nanochannels and pores | [membrane](https://markblundeberg.github.io/driftlet/demos/membrane.html) and [nanochannel](https://markblundeberg.github.io/driftlet/demos/channel.html) demos |
